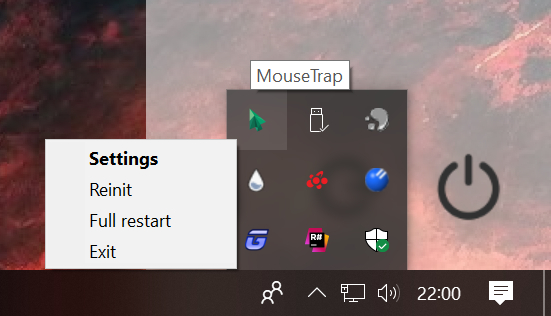
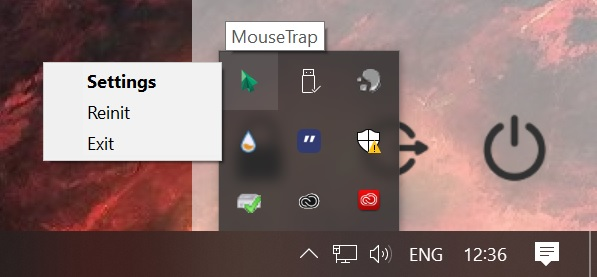
Add commanline support for reinit. closes #3

diff --git a/MouseTrap/src/ServiceThread.cs b/MouseTrap/src/ServiceThread.cs
@@ -46,8 +46,8 @@ namespace MouseTrap {
 
                     service.OnExit();
 
-                    if (lastError > DateTime.Now.AddMinutes(-10) && errorCount > 5) {
-                        // throw on more as five errors in 10min
+                    if (lastError > DateTime.Now.AddMinutes(-10) && errorCount > 50) {
+                        // throw on more as 50 errors in 10min
                         throw;
                     }
                     else if (lastError < DateTime.Now.AddMinutes(-10)) {
@@ -86,7 +86,7 @@ namespace MouseTrap {
 
         private static readonly int WmRestartWorker = RegisterWindowMessage("WM_RESTART_WORKER_" + App.Name);
 
-        private static void NotifyRestartWorker()
+        public static void NotifyRestartWorker()
         {
             PostMessage(
                 (IntPtr) HWND_BROADCAST, WmRestartWorker,

diff --git a/MouseTrap/Program.cs b/MouseTrap/Program.cs
@@ -1,5 +1,6 @@
 using System;
 using System.Linq;
+using System.Runtime.InteropServices.WindowsRuntime;
 using System.Windows.Forms;
 using MouseTrap.Models;
 
@@ -18,6 +19,9 @@ namespace MouseTrap {
                 case "-u":
                     MutexRunner.CloseRunningInstance();
                     ProjectInstaller.Uninstall();
+                    return;
+                case "--reinit":
+                    ServiceThread.NotifyRestartWorker();
                     return;
                 default:
                     StartProgram();

diff --git a/README.md b/README.md
@@ -1,17 +1,17 @@
-# MouseTrap
+# MouseTrap
 
 MouseTrap is a small tool to map the cursor between multiple monitors with <br>
 different resolutions and scaling settings.
 
 ## Min requirements
 
-This tool needs the dpiAwareness api `PerMonitorV2` first introduced in **Windows 10 Creators update**.<br>
+This tool needs the dpiAwareness API `PerMonitorV2` first introduced in **Windows 10 Creators update**.<br>
 So **for this tool to function correctly** you should have at least **Windows build 1703**
 
 
 ## Download and Setup
 
-You can find the latest release hier:
+You can find the latest release here:
 > [Download](https://github.com/r-Larch/MouseTrap/releases)
 
 You can install MouseTrap with **chocolatey**:
@@ -23,47 +23,48 @@ choco install mousetrap --version 1.0.1
 mousetrap
 ```
 
-If you don't have chocolatey allready, I highly recommend installing it.<br>
-It's as simple as pasting the following in a cmd or Powershell window:
-```Powershell
-PowerShell
-Set-ExecutionPolicy Bypass -Scope Process -Force; iex ((New-Object System.Net.WebClient).DownloadString('https://chocolatey.org/install.ps1'))
-```
-*[Why Chocolatey](https://chocolatey.org/docs/why) + [installation](https://chocolatey.org/docs/installation)*
+>If you don't have chocolatey allready, I highly recommend installing it.<br>
+>It's as simple as pasting the following in a cmd or Powershell window:
+>```Powershell
+>PowerShell
+>Set-ExecutionPolicy Bypass -Scope Process -Force; iex ((New-Object >System.Net.WebClient).DownloadString('https://chocolatey.org/install.ps1'))
+>```
+>*[Why Chocolatey](https://chocolatey.org/docs/why) + [installation](https://chocolatey.org/docs/installation)*
 
 ## Usage and Configuration
 
-You can allways find your running **MouseTrap** app as system tray icon in the right corner of your Taskbar.
-Right clicking the icon shows some options:
+You can always find your running **MouseTrap** app as a system-tray icon in the right corner of your Taskbar.
+Right-clicking the icon shows some options:
 
    Option    |   Description
 -------------|------------------------------------------------------------------
 **Settings** | allows you to configure it
 Reinit       | **[alpha-option]** to reinitialize it, in case it hangs :worried:
-Full Restart | **[alpha-option]** in case something hangs heavily :fearful:
 **Exit**     | to close the running instance
+
+_NOTE: reinit can be triggered by commandline:_ `mousetrap --reinit`
 
 ![Tray icon](https://raw.githubusercontent.com/r-Larch/MouseTrap/master/images/tray-snap.jpg)
 
-Hit **Settings** in the menu and you see a screen like in the following picture, where you can see your monitors and their alignment.
-or better how Windows sees them. *(Windows has no clue how big your screens really are).*
+Hit **Settings** on the menu and you see a screen like in the following picture, where you can see your monitors and their alignment.
+or better how Windows sees them. *(Windows has no clue how big your screens are).*
 <br>
 Hit **Configure Screen Bridges** to configure how this tool maps your mouse pointer between Monitors.<br>
-And don't forget to check the checkbox on the left, if it isn't allready, to ensure MouseTrap starts automatically
-if your computer turns of and on again.
+And don't forget to check the checkbox on the left, if it isn't already, to ensure MouseTrap starts automatically
+if your computer turns off and on again.
 
 ![Settings Screen](https://raw.githubusercontent.com/r-Larch/MouseTrap/master/images/settings-screen.jpg)
 
 ### Configure Screen Bridges
 
-On the configuration screen hit the '**+**' buttons to add bridges between your Monitors.<br>
+On the configuration, screen hit the '**+**' buttons to add bridges between your Monitors.<br>
 Then resize them to match your physical screen size.
 
 Look at the pictures to get an idea of how it should look.
 
 ![Config Screen](https://raw.githubusercontent.com/r-Larch/MouseTrap/master/images/config-screen.jpg)
 
-The blue-reddish bar should cover the space where you wand to move your mouse-pointer between your Monitors.<br>
+The blue-reddish bar should cover the space where you want to move your mouse-pointer between your Monitors.<br>
 And **it counts the hole size**, from red tip to red tip.
 
 ![Bridge](https://raw.githubusercontent.com/r-Larch/MouseTrap/master/images/bridge-pic.jpg)
@@ -73,7 +74,7 @@ And **it counts the hole size**, from red tip to red tip.
 ![Bridge bottom](https://raw.githubusercontent.com/r-Larch/MouseTrap/master/images/bridge-bottom-pic.jpg)
 ![Bridge](https://raw.githubusercontent.com/r-Larch/MouseTrap/master/images/bridge-snap.jpg)
 
-Your can allways test your Settings before save them.<br>
+You can always test your Settings before saving them.<br>
 Exit this configuration screen by hitting your `ESC` key or by hitting the `Close` button.
 
 ![Test and save](https://raw.githubusercontent.com/r-Larch/MouseTrap/master/images/test-and-save.jpg)
